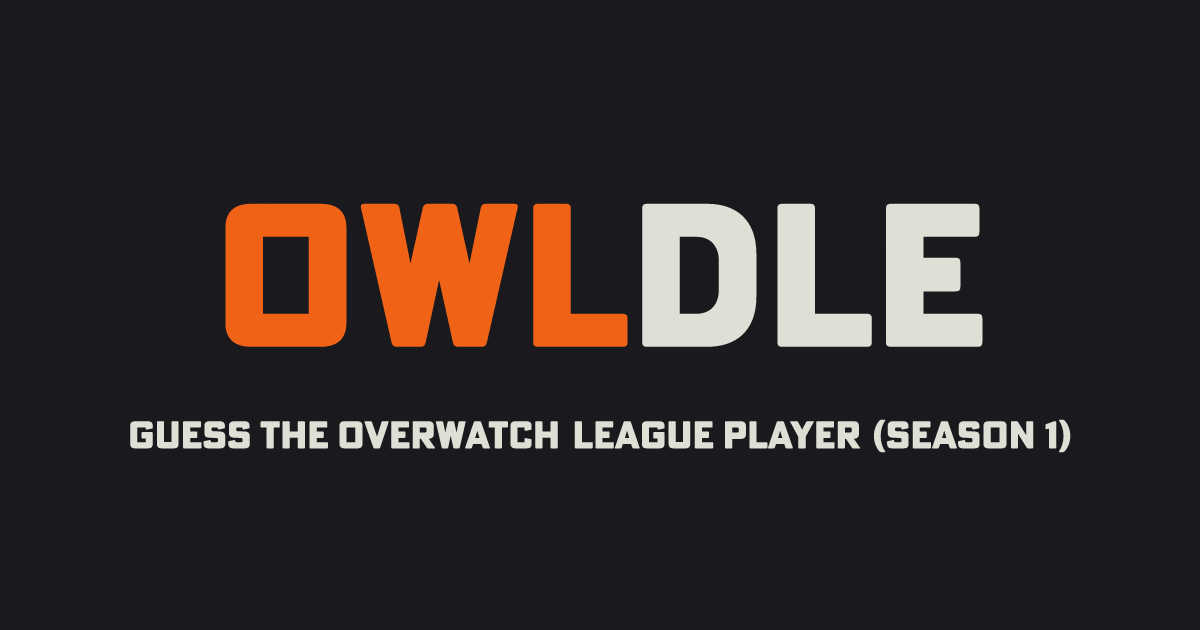
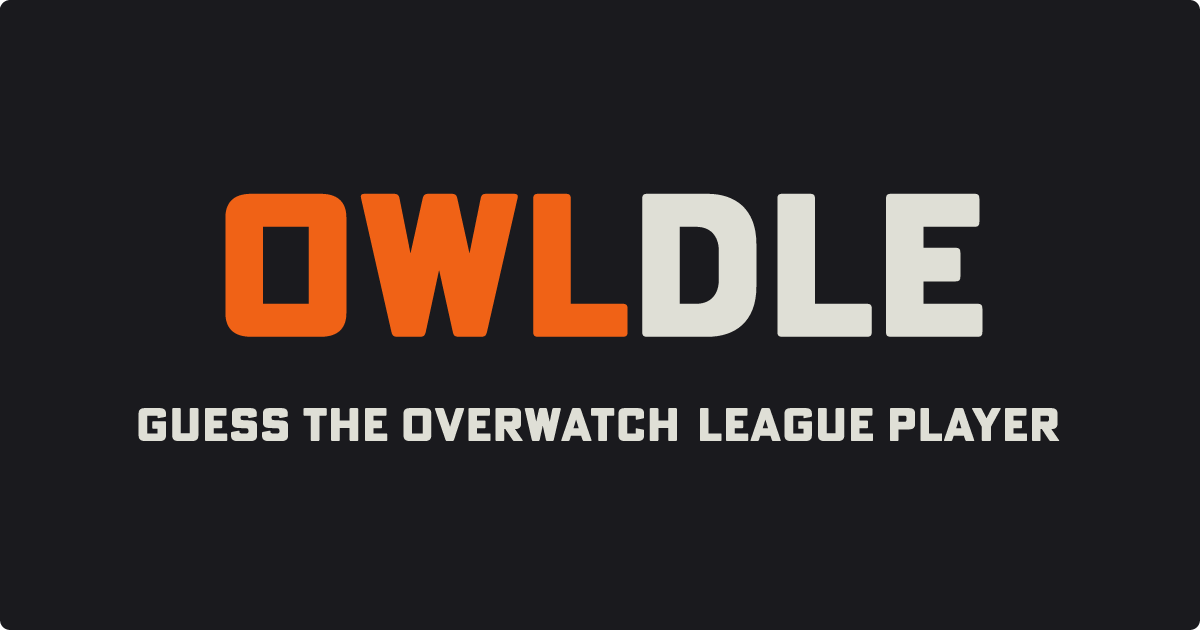
feat: update open graph metadata for all dataset routes

diff --git a/app/[[...dataset]]/page.tsx b/app/[[...dataset]]/page.tsx
@@ -1,6 +1,7 @@
-import { DEFAULT_DESCRIPTION, DEFAULT_TITLE } from '@/app/layout';
+import { DEFAULT_DESCRIPTION, DEFAULT_TITLE, OgConfig, metadata as prevMetadata } from '@/app/layout';
 import GamePage from '@/components/landing-page/game-page';
 import { type Dataset, DATASETS } from '@/data/datasets';
+import { GAME_CONFIG } from '@/lib/config';
 import { notFound } from 'next/navigation';
 
 // Predefined valid seasons
@@ -27,10 +28,46 @@ export async function generateMetadata({ params }: SeasonPageProps) {
 
 	// Format dataset (e.g. "season1" to "Season 1")
 	const formattedDataset = `${currentDataset.charAt(0).toUpperCase() + currentDataset.slice(1, -1)} ${currentDataset.slice(-1)}`;
+	const formattedTitle = `${DEFAULT_TITLE} - ${formattedDataset}`;
+	const formattedDescritpion = `${DEFAULT_DESCRIPTION} (${formattedDataset})`;
+
+	const ogImagePath = `/open-graph${currentDataset}.png`;
 
 	return {
-		title: `${DEFAULT_TITLE} - ${formattedDataset}`,
-		description: `${DEFAULT_DESCRIPTION} (${formattedDataset})`,
+		...prevMetadata,
+		title: formattedTitle,
+		description: formattedDescritpion,
+		openGraph: {
+			title: formattedTitle,
+			description: formattedDescritpion,
+			url: GAME_CONFIG.siteUrl,
+			images: [
+				{
+					alt: formattedTitle,
+					url: ogImagePath,
+					width: OgConfig.ogImageWidth,
+					height: OgConfig.ogImageHeight,
+				},
+			],
+			type: 'website',
+			siteName: 'owldle',
+		},
+		twitter: {
+			title: DEFAULT_TITLE,
+			description: DEFAULT_DESCRIPTION,
+			site: GAME_CONFIG.siteUrl,
+			siteId: 'owldle',
+			images: [
+				{
+					url: `https://www.owldle.com${ogImagePath}`,
+					alt: formattedTitle,
+					width: OgConfig.ogImageWidth,
+					height: OgConfig.ogImageHeight,
+					type: 'website',
+				},
+			],
+			card: 'summary_large_image',
+		},
 	};
 }
 

diff --git a/app/layout.tsx b/app/layout.tsx
@@ -33,9 +33,11 @@ const owlHeader = localFont({
 
 export const DEFAULT_TITLE = 'OWLDLE';
 export const DEFAULT_DESCRIPTION = 'Guess the Overwatch League player';
-const ogImagePath = '/open-graph.png';
-const ogImageWidth = 1200;
-const ogImageHeight = 630;
+export const OgConfig = {
+	ogImagePath: '/open-graph.png',
+	ogImageWidth: 1200,
+	ogImageHeight: 630,
+};
 
 export const metadata: Metadata = {
 	title: DEFAULT_TITLE,
@@ -47,9 +49,10 @@ export const metadata: Metadata = {
 		url: GAME_CONFIG.siteUrl,
 		images: [
 			{
-				url: ogImagePath,
-				width: ogImageWidth,
-				height: ogImageHeight,
+				url: OgConfig.ogImagePath,
+				alt: DEFAULT_TITLE,
+				width: OgConfig.ogImageWidth,
+				height: OgConfig.ogImageHeight,
 			},
 		],
 		type: 'website',
@@ -62,9 +65,10 @@ export const metadata: Metadata = {
 		siteId: 'owldle',
 		images: [
 			{
-				url: `https://www.owldle.com${ogImagePath}`,
-				width: ogImageWidth,
-				height: ogImageHeight,
+				url: `https://www.owldle.com${OgConfig.ogImagePath}`,
+				alt: DEFAULT_TITLE,
+				width: OgConfig.ogImageWidth,
+				height: OgConfig.ogImageHeight,
 				type: 'website',
 			},
 		],